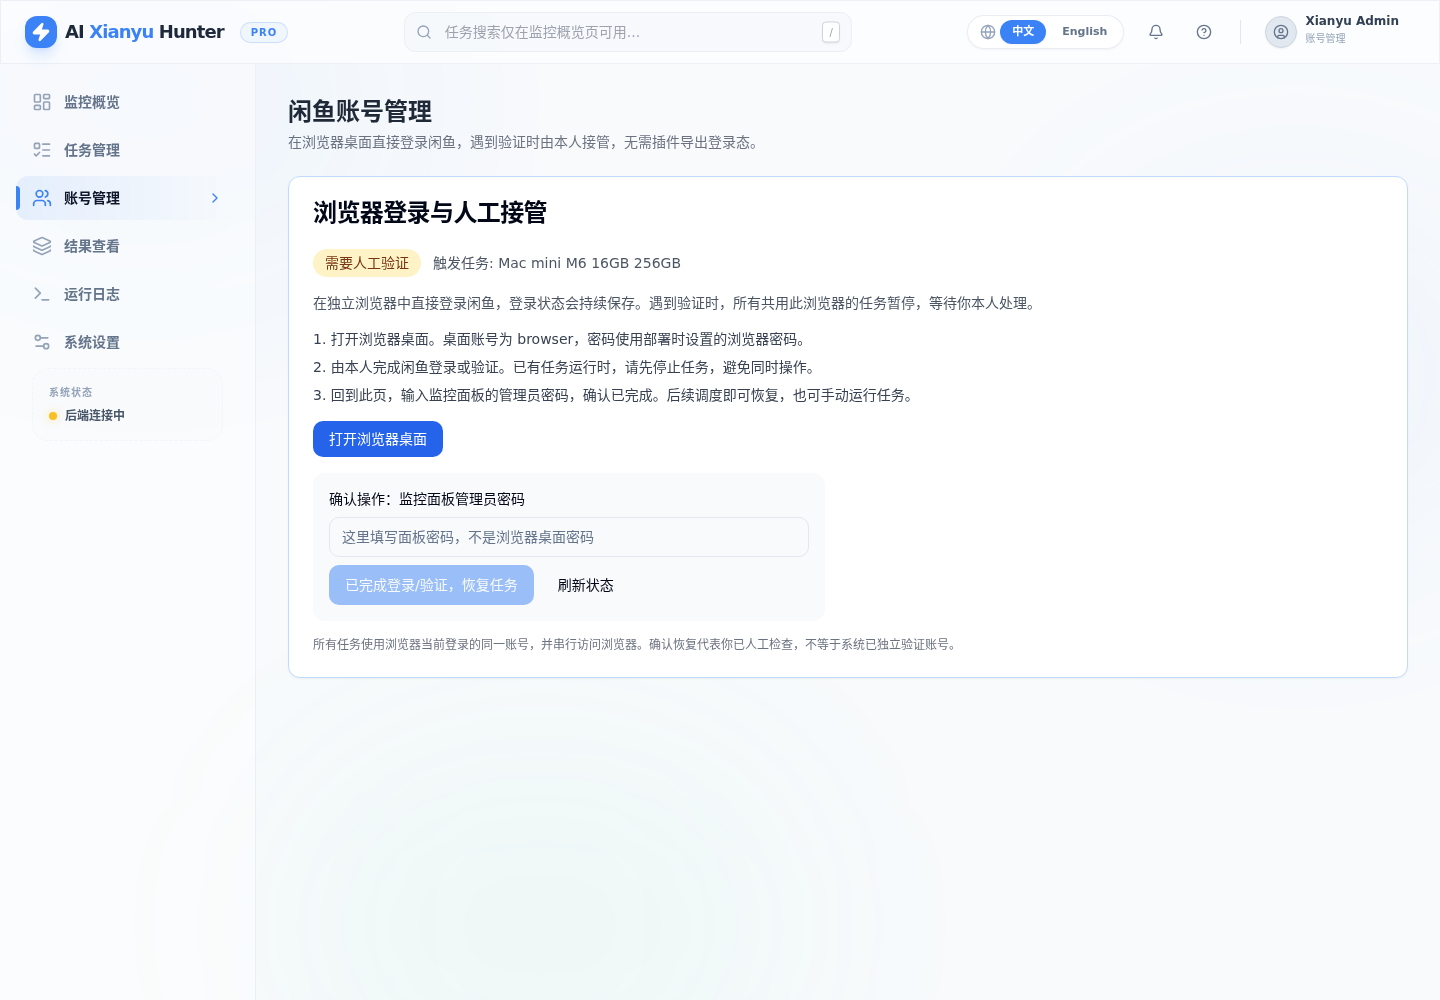
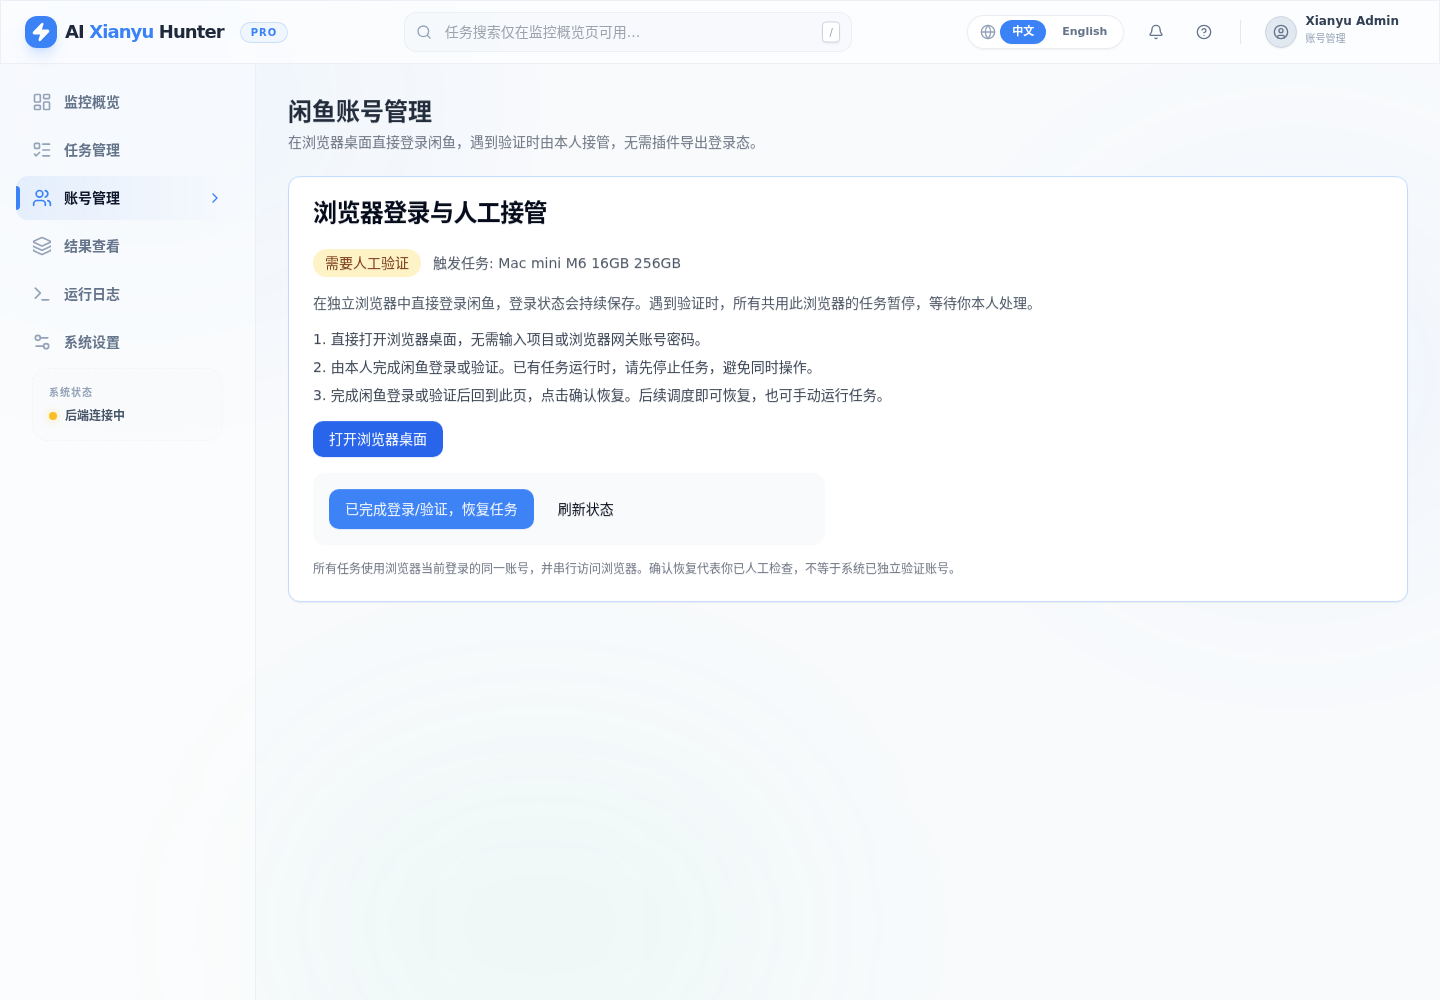
feat(lan): remove browser and dashboard password gates

diff --git a/web-ui/src/components/accounts/BrowserSessionPanel.vue b/web-ui/src/components/accounts/BrowserSessionPanel.vue
@@ -2,16 +2,12 @@
 import { computed, onMounted, onUnmounted, ref } from 'vue'
 import { useI18n } from 'vue-i18n'
 import { getBrowserStatus, updateBrowserState, type BrowserStatus } from '@/api/browser'
-import { useAuth } from '@/composables/useAuth'
 import { Button } from '@/components/ui/button'
-import { Input } from '@/components/ui/input'
 import { Card, CardContent, CardHeader, CardTitle } from '@/components/ui/card'
 
 const emit = defineEmits<{ (e: 'mode', enabled: boolean): void }>()
 const { t } = useI18n()
-const { username } = useAuth()
 const status = ref<BrowserStatus | null>(null)
-const password = ref('')
 const error = ref('')
 const saving = ref(false)
 let timer: ReturnType<typeof setInterval> | undefined
@@ -32,12 +28,11 @@ async function refresh() {
   }
 }
 async function change(action: 'ready' | 'pause') {
-  if (!status.value?.incident_id || !password.value) return
+  if (!status.value?.incident_id) return
   saving.value = true
   error.value = ''
   try {
-    await updateBrowserState(action, status.value.incident_id, username.value || 'admin', password.value)
-    password.value = ''
+    await updateBrowserState(action, status.value.incident_id)
   } catch (e) {
     error.value = (e as Error).message
   } finally {
@@ -70,11 +65,9 @@ onUnmounted(() => { mounted = false; clearInterval(timer) })
         <a :href="browserUrl" target="_blank" rel="noopener noreferrer" class="inline-flex rounded-md bg-blue-600 px-4 py-2 text-sm font-medium text-white hover:bg-blue-700">{{ t('browserSession.open') }}</a>
         <p v-if="status.notification === 'failed'" class="text-sm text-amber-800">{{ t('browserSession.notificationFailed') }}</p>
         <div class="max-w-lg space-y-2 rounded-lg bg-gray-50 p-4">
-          <label for="browser-admin-password" class="block text-sm font-medium">{{ t('browserSession.password') }}</label>
-          <Input id="browser-admin-password" v-model="password" type="password" autocomplete="current-password" :placeholder="t('browserSession.passwordHint')" />
           <div class="flex flex-wrap gap-2">
-            <Button v-if="status.state !== 'ready'" :disabled="saving || status.busy || !password" @click="change('ready')">{{ t('browserSession.confirm') }}</Button>
-            <Button v-else variant="outline" :disabled="saving || status.busy || !password" @click="change('pause')">{{ t('browserSession.pause') }}</Button>
+            <Button v-if="status.state !== 'ready'" :disabled="saving || status.busy" @click="change('ready')">{{ t('browserSession.confirm') }}</Button>
+            <Button v-else variant="outline" :disabled="saving || status.busy" @click="change('pause')">{{ t('browserSession.pause') }}</Button>
             <Button variant="ghost" @click="refresh">{{ t('browserSession.refresh') }}</Button>
           </div>
         </div>

diff --git a/web-ui/src/router/index.ts b/web-ui/src/router/index.ts
@@ -1,15 +1,13 @@
 import { watch } from 'vue'
 import { createRouter, createWebHistory } from 'vue-router'
 import MainLayout from '@/layouts/MainLayout.vue'
-import { useAuth } from '@/composables/useAuth'
 import { i18n, t } from '@/i18n'
 
 const routes = [
   {
     path: '/login',
     name: 'Login',
-    component: () => import('@/views/LoginView.vue'),
-    meta: { titleKey: 'routes.login' },
+    redirect: '/dashboard',
   },
   {
     path: '/',
@@ -20,37 +18,37 @@ const routes = [
         path: 'dashboard',
         name: 'Dashboard',
         component: () => import('@/views/DashboardView.vue'),
-        meta: { titleKey: 'routes.dashboard', requiresAuth: true },
+        meta: { titleKey: 'routes.dashboard' },
       },
       {
         path: 'tasks',
         name: 'Tasks',
         component: () => import('@/views/TasksView.vue'),
-        meta: { titleKey: 'routes.tasks', requiresAuth: true },
+        meta: { titleKey: 'routes.tasks' },
       },
       {
         path: 'accounts',
         name: 'Accounts',
         component: () => import('@/views/AccountsView.vue'),
-        meta: { titleKey: 'routes.accounts', requiresAuth: true },
+        meta: { titleKey: 'routes.accounts' },
       },
       {
         path: 'results',
         name: 'Results',
         component: () => import('@/views/ResultsView.vue'),
-        meta: { titleKey: 'routes.results', requiresAuth: true },
+        meta: { titleKey: 'routes.results' },
       },
       {
         path: 'logs',
         name: 'Logs',
         component: () => import('@/views/LogsView.vue'),
-        meta: { titleKey: 'routes.logs', requiresAuth: true },
+        meta: { titleKey: 'routes.logs' },
       },
       {
         path: 'settings',
         name: 'Settings',
         component: () => import('@/views/SettingsView.vue'),
-        meta: { titleKey: 'routes.settings', requiresAuth: true },
+        meta: { titleKey: 'routes.settings' },
       },
     ],
   },
@@ -74,18 +72,6 @@ function updateDocumentTitle() {
   const appName = t('app.name')
   document.title = titleKey ? `${t(titleKey)} - ${appName}` : appName
 }
-
-router.beforeEach((to, _from, next) => {
-  const { isAuthenticated } = useAuth()
-
-  if (to.meta.requiresAuth && !isAuthenticated.value) {
-    next({ name: 'Login', query: { redirect: to.fullPath } })
-  } else if (to.name === 'Login' && isAuthenticated.value) {
-    next({ name: 'Dashboard' })
-  } else {
-    next()
-  }
-})
 
 router.afterEach(() => {
   updateDocumentTitle()

diff --git a/web-ui/src/i18n/messages/zh-CN-extra.ts b/web-ui/src/i18n/messages/zh-CN-extra.ts
@@ -12,13 +12,11 @@ const zhCNExtra = {
   },
   "affectedTask": "触发任务",
   "description": "在独立浏览器中直接登录闲鱼，登录状态会持续保存。遇到验证时，所有共用此浏览器的任务暂停，等待你本人处理。",
-  "step1": "打开浏览器桌面。桌面账号为 browser，密码使用部署时设置的浏览器密码。",
+  "step1": "直接打开浏览器桌面，无需输入项目或浏览器网关账号密码。",
   "step2": "由本人完成闲鱼登录或验证。已有任务运行时，请先停止任务，避免同时操作。",
-  "step3": "回到此页，输入监控面板的管理员密码，确认已完成。后续调度即可恢复，也可手动运行任务。",
+  "step3": "完成闲鱼登录或验证后回到此页，点击确认恢复。后续调度即可恢复，也可手动运行任务。",
   "open": "打开浏览器桌面",
   "notificationFailed": "企业微信通知未发送成功。请在设置中检查企业微信机器人配置；任务仍保持暂停。",
-  "password": "确认操作：监控面板管理员密码",
-  "passwordHint": "这里填写面板密码，不是浏览器桌面密码",
   "confirm": "已完成登录/验证，恢复任务",
   "pause": "暂停自动操作，准备人工接管",
   "refresh": "刷新状态",

diff --git a/web-ui/src/i18n/messages/en-US-extra.ts b/web-ui/src/i18n/messages/en-US-extra.ts
@@ -12,13 +12,11 @@ const enUSExtra = {
   },
   "affectedTask": "Affected task",
   "description": "Log in directly in the persistent browser. All tasks sharing this browser pause when verification is required and wait for you.",
-  "step1": "Open the browser desktop. Use username browser and the browser password configured at deployment.",
+  "step1": "Open the browser desktop directly. No dashboard or browser gateway credentials are required.",
   "step2": "Complete login or verification yourself. Stop any running task before interacting with the browser.",
-  "step3": "Return here, enter the dashboard administrator password, and confirm completion. Future schedules can resume, or start a task manually.",
+  "step3": "After completing Goofish login or verification, return here and confirm. Future schedules can resume, or start a task manually.",
   "open": "Open browser desktop",
   "notificationFailed": "Enterprise WeChat notification failed. Check the robot configuration in Settings. Tasks remain paused.",
-  "password": "Confirm with dashboard administrator password",
-  "passwordHint": "Dashboard password, not the browser desktop password",
   "confirm": "Login/verification completed — resume",
   "pause": "Pause automation for human takeover",
   "refresh": "Refresh status",

diff --git a/web-ui/src/services/websocket.ts b/web-ui/src/services/websocket.ts
@@ -7,14 +7,6 @@ class WebSocketService {
   public isConnected = false;
   private shouldConnect = false;
 
-  constructor() {
-    // 延迟连接，等待认证完成
-    // 只有在已登录时才尝试连接
-    if (localStorage.getItem('auth_logged_in') === 'true') {
-      this.connect();
-    }
-  }
-
   public start() {
     // 手动启动 WebSocket 连接
     this.shouldConnect = true;
@@ -33,6 +25,7 @@ class WebSocketService {
   }
 
   private connect() {
+    if (!this.shouldConnect) return;
     // Determine the protocol (ws or wss) based on the current page protocol
     const protocol = window.location.protocol === 'https:' ? 'wss:' : 'ws:';
     const host = window.location.host; // This includes port if present
@@ -66,8 +59,8 @@ class WebSocketService {
         this.isConnected = false;
         this.emit('disconnected', { isConnected: false });
       }
-      // 只有在 shouldConnect 为 true 或已登录时才重连
-      if (this.shouldConnect || localStorage.getItem('auth_logged_in') === 'true') {
+      // Reconnect only while this public LAN dashboard is active.
+      if (this.shouldConnect) {
         setTimeout(() => this.connect(), this.reconnectInterval);
       }
     };

diff --git a/web-ui/src/lib/http.ts b/web-ui/src/lib/http.ts
@@ -1,11 +1,9 @@
-import { useAuth } from '@/composables/useAuth'
 
 interface FetchOptions extends RequestInit {
   params?: Record<string, string | number | boolean | undefined>;
 }
 
 export async function http(url: string, options: FetchOptions = {}) {
-  const { logout } = useAuth()
   
   const headers = new Headers(options.headers)
 
@@ -30,13 +28,6 @@ export async function http(url: string, options: FetchOptions = {}) {
   }
 
   const response = await fetch(fullUrl, config)
-
-  if (response.status === 401) {
-    // Basic Auth failed or session expired
-    logout()
-    // Optional: Redirect to login handled by router or state change
-    throw new Error('Unauthorized')
-  }
 
   if (!response.ok) {
     const errorData = await response.json().catch(() => ({}))

diff --git a/web-ui/src/api/browser.ts b/web-ui/src/api/browser.ts
@@ -16,11 +16,10 @@ export function getBrowserStatus(): Promise<BrowserStatus> {
   return http('/api/browser/status')
 }
 
-export function updateBrowserState(action: 'pause' | 'ready', incidentId: string, username: string, password: string): Promise<BrowserStatus> {
-  const encoded = btoa(String.fromCharCode(...new TextEncoder().encode(`${username}:${password}`)))
+export function updateBrowserState(action: 'pause' | 'ready', incidentId: string): Promise<BrowserStatus> {
   return http(`/api/browser/${action}`, {
     method: 'POST',
-    headers: { 'Content-Type': 'application/json', Authorization: `Basic ${encoded}` },
+    headers: { 'Content-Type': 'application/json' },
     body: JSON.stringify({ incident_id: incidentId }),
   })
 }

diff --git a/web-ui/src/main.ts b/web-ui/src/main.ts
@@ -3,6 +3,7 @@ import App from './App.vue'
 import router from './router'
 import { i18n } from './i18n'
 import './assets/main.css'
+import { wsService } from '@/services/websocket'
 
 const app = createApp(App)
 
@@ -10,3 +11,4 @@ app.use(router)
 app.use(i18n)
 
 app.mount('#app')
+wsService.start()

diff --git a/tests/integration/test_browser_handoff_api.py b/tests/integration/test_browser_handoff_api.py
@@ -1,5 +1,3 @@
-import base64
-
 from fastapi import FastAPI
 from fastapi.testclient import TestClient
 import pytest
@@ -12,35 +10,28 @@ from src.services.browser_session_service import BrowserSessionControl
 def client(tmp_path, monkeypatch):
     monkeypatch.setenv('APP_DATABASE_FILE', str(tmp_path / 'api.db'))
     monkeypatch.setenv('BROWSER_MODE', 'remote')
-    from types import SimpleNamespace
-    monkeypatch.setattr(browser, 'get_settings', lambda: SimpleNamespace(web_username='testadmin', web_password='testpassword'))
     app = FastAPI()
     app.include_router(browser.router)
     return TestClient(app)
 
 
-def auth():
-    return {'Authorization': 'Basic ' + base64.b64encode(b'testadmin:testpassword').decode()}
 
-
-def test_handoff_requires_admin_current_incident_and_idle_browser(client, monkeypatch):
+def test_handoff_needs_no_credentials_but_requires_current_incident_and_idle_browser(client, monkeypatch):
     from unittest.mock import AsyncMock
     reachable = AsyncMock()
     monkeypatch.setattr(browser, 'reachable', reachable)
     status = client.get('/api/browser/status').json()
     assert status['enabled'] and status['state'] == 'needs_login'
     body = {'incident_id': status['incident_id']}
-    assert client.post('/api/browser/ready', json=body).status_code == 401
-    assert client.post('/api/browser/ready', json=body, auth=('testadmin', 'wrong')).status_code == 401
     assert client.get('/api/browser/status').json()['state'] == 'needs_login'
     control = BrowserSessionControl()
     with control.lease():
-        assert client.post('/api/browser/ready', json=body, headers=auth()).status_code == 409
-    assert client.post('/api/browser/ready', json=body, headers=auth()).status_code == 200
+        assert client.post('/api/browser/ready', json=body).status_code == 409
+    assert client.post('/api/browser/ready', json=body).status_code == 200
     assert client.get('/api/browser/status').json()['state'] == 'ready'
-    assert client.post('/api/browser/ready', json=body, headers=auth()).status_code == 409
+    assert client.post('/api/browser/ready', json=body).status_code == 409
     ready = client.get('/api/browser/status').json()
-    assert client.post('/api/browser/pause', json={'incident_id': ready['incident_id']}, headers=auth()).json()['state'] == 'needs_login'
+    assert client.post('/api/browser/pause', json={'incident_id': ready['incident_id']}).json()['state'] == 'needs_login'
     reachable.assert_awaited()
 
 
@@ -49,7 +40,7 @@ def test_browser_unreachable_preserves_wait_state(client, monkeypatch):
     from fastapi import HTTPException
     monkeypatch.setattr(browser, 'reachable', AsyncMock(side_effect=HTTPException(503, 'unavailable')))
     initial = client.get('/api/browser/status').json()
-    response = client.post('/api/browser/ready', json={'incident_id': initial['incident_id']}, headers=auth())
+    response = client.post('/api/browser/ready', json={'incident_id': initial['incident_id']})
     assert response.status_code == 503
     assert client.get('/api/browser/status').json()['incident_id'] == initial['incident_id']
 
@@ -59,7 +50,16 @@ def test_manual_completion_does_not_start_tasks_or_visit_platform(client, monkey
     reachable = AsyncMock()
     monkeypatch.setattr(browser, 'reachable', reachable)
     state = client.get('/api/browser/status').json()
-    response = client.post('/api/browser/ready', json={'incident_id': state['incident_id']}, headers=auth())
+    response = client.post('/api/browser/ready', json={'incident_id': state['incident_id']})
     assert response.status_code == 200
     reachable.assert_awaited_once_with()
     assert response.json()['state'] == 'ready'
+
+
+def test_dashboard_auth_status_is_public_compatibility_endpoint():
+    from src.app import app
+    client = TestClient(app)
+    for response in (client.get('/auth/status'), client.post('/auth/status'), client.post('/auth/status', json={'username': 'anything', 'password': 'anything'})):
+        assert response.status_code == 200
+        assert response.json()['authentication_required'] is False
+        assert 'www-authenticate' not in response.headers

diff --git a/src/api/routes/browser.py b/src/api/routes/browser.py
@@ -1,28 +1,16 @@
 """Human-operated browser handoff controls; no CAPTCHA automation."""
 import asyncio
-import secrets
 
-from fastapi import APIRouter, Depends, HTTPException
-from fastapi.security import HTTPBasic, HTTPBasicCredentials
+from fastapi import APIRouter, HTTPException
 from playwright.async_api import async_playwright
 from pydantic import BaseModel, ConfigDict, Field
 
-from src.infrastructure.config.settings import get_settings
 from src.services.browser_session_service import (
     BrowserSessionControl, BrowserBusyError, BrowserStateConflict,
     connect_remote_browser, public_browser_url, remote_browser_enabled,
 )
 
 router = APIRouter(prefix='/api/browser', tags=['browser'])
-basic = HTTPBasic()
-
-
-def require_admin(credentials: HTTPBasicCredentials = Depends(basic)):
-    settings = get_settings()
-    correct_user = secrets.compare_digest(credentials.username.encode(), settings.web_username.encode())
-    correct_password = secrets.compare_digest(credentials.password.encode(), settings.web_password.encode())
-    if not (correct_user and correct_password):
-        raise HTTPException(401, 'Authentication required', headers={'WWW-Authenticate': 'Basic'})
 
 
 class Confirmation(BaseModel):
@@ -64,11 +52,11 @@ async def transition(data: Confirmation, ready: bool):
         raise HTTPException(409, '浏览器状态已变化，请刷新后再确认。') from None
 
 
-@router.post('/ready', dependencies=[Depends(require_admin)])
+@router.post('/ready')
 async def ready(data: Confirmation):
     return await transition(data, True)
 
 
-@router.post('/pause', dependencies=[Depends(require_admin)])
+@router.post('/pause')
 async def pause(data: Confirmation):
     return await transition(data, False)

diff --git a/src/app.py b/src/app.py
@@ -133,22 +133,14 @@ async def health_check():
     return {"status": "healthy", "message": "服务正常运行"}
 
 
-# 认证状态检查端点
-from fastapi import Request, HTTPException
+# Compatibility endpoint for older clients; the LAN service has no login gate.
+from fastapi import Request
 from fastapi.responses import FileResponse
-from pydantic import BaseModel
 
-class LoginRequest(BaseModel):
-    username: str
-    password: str
-
-
+@app.get("/auth/status")
 @app.post("/auth/status")
-async def auth_status(payload: LoginRequest):
-    """检查认证状态"""
-    if payload.username == app_settings.web_username and payload.password == app_settings.web_password:
-        return {"authenticated": True, "username": payload.username}
-    raise HTTPException(status_code=401, detail="认证失败")
+async def auth_status():
+    return {"authenticated": True, "authentication_required": False, "username": "LAN"}
 
 
 # 主页路由 - 服务 Vue 3 SPA

diff --git a/src/infrastructure/config/settings.py b/src/infrastructure/config/settings.py
@@ -101,8 +101,6 @@ class ScraperSettings(_EnvSettings):
 class AppSettings(_EnvSettings):
     """应用主配置"""
     server_port: int = _env_field(8000, "SERVER_PORT")
-    web_username: str = _env_field("admin", "WEB_USERNAME")
-    web_password: str = _env_field("admin123", "WEB_PASSWORD")
     task_log_retention_days: int = _env_field(7, "TASK_LOG_RETENTION_DAYS", ge=1)
 
     # 文件路径配置
